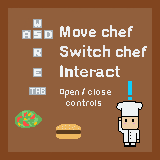
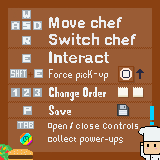
updated menus

Changed region(s): [[0.0, 0.0625, 1.0, 1.0]]

diff --git a/core/src/com/team13/piazzapanic/MenuScreen.java b/core/src/com/team13/piazzapanic/MenuScreen.java
@@ -21,7 +21,8 @@ import com.badlogic.gdx.scenes.scene2d.ui.Label;
 public class MenuScreen implements Screen {
     private final MainGame game;
     private final Texture backgroundImage;
-    private final Sprite backgroundSprite;
+    private final Texture backgroundImageNoLoad;
+    private Sprite backgroundSprite;
     private final OrthographicCamera camera;
     private final Viewport viewport;
     private BitmapFont font = new BitmapFont();
@@ -34,12 +35,21 @@ public class MenuScreen implements Screen {
     public MenuScreen(MainGame game) {
         this.game = game;
         backgroundImage = new Texture("levelSelectImage.png");
+        backgroundImageNoLoad = new Texture("levelSelectImageNoLoad.png");
         backgroundSprite = new Sprite(backgroundImage);
         camera = new OrthographicCamera();
         viewport = new FitViewport(MainGame.V_WIDTH, MainGame.V_HEIGHT, camera);
         font.getData().setScale(1.2F, 1F);
         font2.getData().setScale(1.2F, 1F);
         font.setColor(Color.RED);
+    }
+
+    /**
+     * Method to change the screen shown if a save file cannot be found
+     */
+    public void showNoLoad()
+    {
+        backgroundSprite = new Sprite(backgroundImageNoLoad);
     }
 
     /**

diff --git a/core/src/com/team13/piazzapanic/HUD.java b/core/src/com/team13/piazzapanic/HUD.java
@@ -174,6 +174,8 @@ public class HUD implements Disposable {
         if(scenarioComplete==Boolean.TRUE){
             orderNumL.remove();
             orderNumLT.remove();
+            scoreLabelT.remove();
+            scoreLabel.remove();
             table.center().top();
             stage.addActor(table);
             return;

diff --git a/core/src/com/team13/piazzapanic/MainGame.java b/core/src/com/team13/piazzapanic/MainGame.java
@@ -69,6 +69,7 @@ public class MainGame extends Game {
 		playScreen = new PlayScreen(this);
 
 		loadPossible = LoadManager.initialise();
+		if(!loadPossible) { menuScreen.showNoLoad(); }
 
 		// Create high score data if none exists
 		highScoreData = Gdx.app.getPreferences("piazza_panic_hs");
